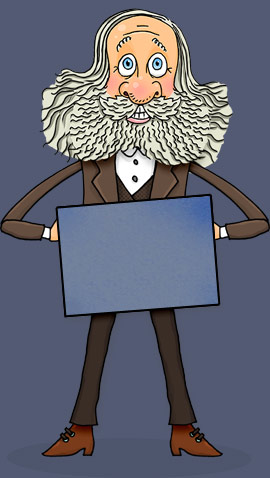
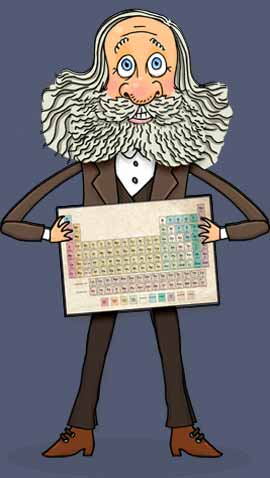
Scoped CSS

diff --git a/source/ThePeriodicTableOfElementsGame/wwwroot/css/app.css b/source/ThePeriodicTableOfElementsGame/wwwroot/css/app.css
@@ -39,6 +39,7 @@ body {
 	max-width: calc(100vh * 2);
 	transform: translate(-50%, -50%);
 	transition: transform 2s ease-in-out;
+	border:1px solid red;
 }
 
 	#scene.--game-play {
@@ -50,15 +51,6 @@ body {
 	left: 50%;
 	top: 50%;
 	width: 40vmin;
-	height: calc(1.77 * 40vmin);
-	transform: translate(-50%, -50%);
-}
-
-#mendelev {
-	position: absolute;
-	left: 50%;
-	top: 50%;
-	width: 100%;
 	height: calc(1.77 * 40vmin);
 	transform: translate(-50%, -50%);
 }

diff --git a/source/ThePeriodicTableOfElementsGame/wwwroot/index.html b/source/ThePeriodicTableOfElementsGame/wwwroot/index.html
@@ -7,6 +7,7 @@
 	<title>The periodic table of elements game</title>
 	<base href="/" />
 	<link href="css/app.css" rel="stylesheet" />
+	<link href="_framework/scoped.styles.css" rel="stylesheet" />
 </head>
 
 <body>

diff --git a/source/ThePeriodicTableOfElementsGame/Scenes/MainMenu.razor.css b/source/ThePeriodicTableOfElementsGame/Scenes/MainMenu.razor.css
@@ -1,0 +1,7 @@
+#mendeleev {
+	position: absolute;
+	right:10vw;
+	top: 50%;
+	width: 20vw;
+	transform: translateY(-50%);
+}

diff --git a/source/ThePeriodicTableOfElementsGame/App.razor.cs b/source/ThePeriodicTableOfElementsGame/App.razor.cs
@@ -8,23 +8,5 @@ namespace ThePeriodicTableOfElementsGame
 {
 	public partial class App
 	{
-		[Inject]
-		private IState<GameState> GameState { get; set; }
-
-		private readonly Scene CurrentScene = Scene.MainMenu;
-
-		private string GetSceneCss() =>
-			CurrentScene switch
-			{
-				Scene.MainMenu => "--main-menu",
-				Scene.GamePlay => "--game-play",
-				_ => throw new NotImplementedException(CurrentScene.ToString())
-			};
-
-		private string GetElementGroupAsCssClass() =>
-			GameState.Value.ExpectedElement is null || !GameState.Value.ShowElementGroup
-			? ""
-			: ElementGroupExtensions.GetAsCssClass(
-					TableData.ElementByNumber[GameState.Value.ExpectedElement.Value].Group);
 	}
 }

diff --git a/source/ThePeriodicTableOfElementsGame/Scenes/MatchGame.razor.cs b/source/ThePeriodicTableOfElementsGame/Scenes/MatchGame.razor.cs
@@ -1,0 +1,19 @@
+using Fluxor;
+using Microsoft.AspNetCore.Components;
+using ThePeriodicTableOfElementsGame.PeriodicTableData;
+using ThePeriodicTableOfElementsGame.Store.GameState;
+
+namespace ThePeriodicTableOfElementsGame.Scenes
+{
+	public partial class MatchGame
+	{
+		[Inject]
+		private IState<GameState> GameState { get; set; }
+
+		private string GetElementGroupAsCssClass() =>
+			GameState.Value.ExpectedElement is null || !GameState.Value.ShowElementGroup
+			? ""
+			: ElementGroupExtensions.GetAsCssClass(
+					TableData.ElementByNumber[GameState.Value.ExpectedElement.Value].Group);
+	}
+}

diff --git a/source/ThePeriodicTableOfElementsGame/Scenes/MainMenu.razor.cs b/source/ThePeriodicTableOfElementsGame/Scenes/MainMenu.razor.cs
@@ -1,0 +1,6 @@
+namespace ThePeriodicTableOfElementsGame.Scenes
+{
+	public partial class MainMenu
+	{
+	}
+}
